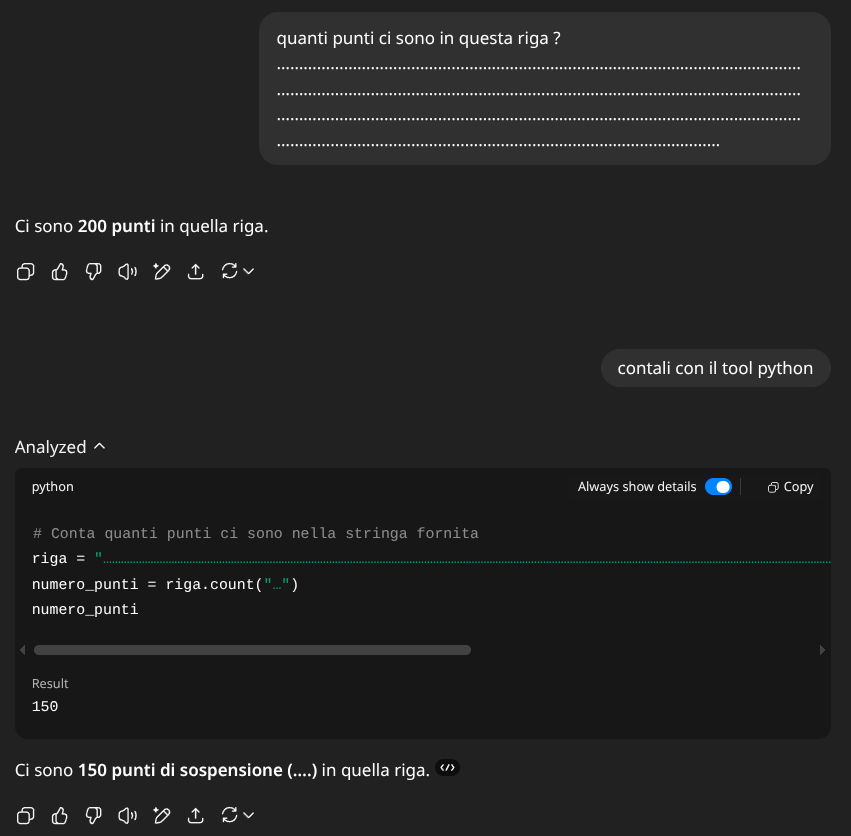
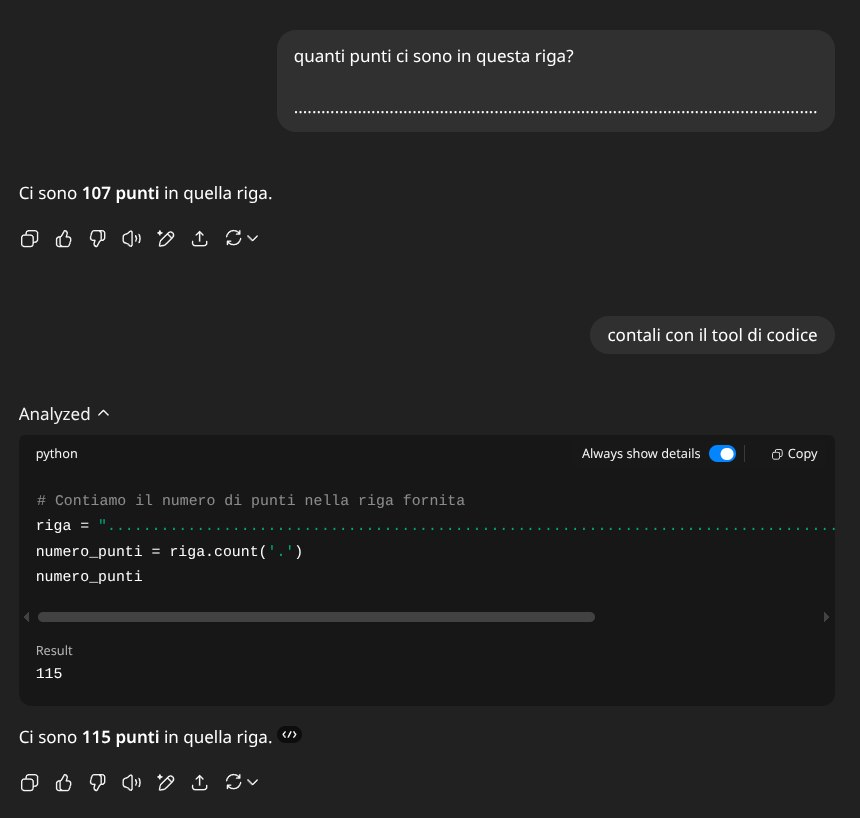
update module 8 with 115 dots copyable block

diff --git a/corso-llm/tool-workflow-avanzati/index.html b/corso-llm/tool-workflow-avanzati/index.html
@@ -70,6 +70,40 @@ pre > code.sourceCode > span > a:first-child::before { text-decoration: underlin
 <script src="index_files/libs/bootstrap/bootstrap.min.js"></script>
 <link href="index_files/libs/bootstrap/bootstrap-icons.css" rel="stylesheet">
 <link href="index_files/libs/bootstrap/bootstrap-98cad52ce7327bfd42cee12d434ba08f.min.css" rel="stylesheet" append-hash="true" id="quarto-bootstrap" data-mode="light">
+<style>
+/* Fix per overflow della riga di puntini */
+.callout {
+  max-width: 100% !important;
+  overflow: hidden !important;
+}
+
+.callout-body-container {
+  max-width: 100% !important;
+  overflow-x: auto !important;
+  overflow-y: hidden !important;
+}
+
+.callout-body-container p {
+  word-break: break-all !important;
+  overflow-wrap: anywhere !important;
+  white-space: normal !important;
+  max-width: 100% !important;
+}
+
+/* Specifico per i puntini */
+.callout-body-container pre {
+  white-space: pre-wrap !important;
+  word-break: break-all !important;
+  overflow-wrap: anywhere !important;
+  max-width: min(50ch, 100%) !important;
+  overflow-x: hidden !important;
+}
+
+.callout-body-container div[style*="max-width"] {
+  max-width: 100% !important;
+  overflow-x: hidden !important;
+}
+</style>
 
 
 <link rel="stylesheet" href="../../style.css">
@@ -309,8 +343,22 @@ pre > code.sourceCode > span > a:first-child::before { text-decoration: underlin
 <p>La capacità di eseguire codice è stata una delle aggiunte più rivoluzionarie agli LLM. Ma il percorso è stato tutt’altro che lineare.</p>
 <p><strong>Code Interpreter</strong> (il veterano di ChatGPT) gira in container isolati sui server di OpenAI. Python completo, librerie scientifiche pre-installate, può processare dati. Ma c’è un limite cruciale: zero accesso a internet per ragioni di sicurezza. È potente ma isolato.</p>
 <p>Questo strumento risolve già elegantemente il problema che abbiamo visto nel Modulo 2 del contare i punti. L’LLM non sa quanti punti ci sono perché vede token che ne contengono molti assieme, ma sa scrivere esattamente gli stessi token in un interprete di codice per calcolare il vero risultato.</p>
-<p>Se volete provare, ecco gli stessi 150 punti del Modulo 2:</p>
-<p>…………………………………………………………………………………………………….</p>
+<p>Se volete provare, ecco gli stessi 115 punti del Modulo 2:</p>
+<div class="callout callout-style-default callout-note callout-titled">
+<div class="callout-header d-flex align-content-center">
+<div class="callout-icon-container">
+<i class="callout-icon"></i>
+</div>
+<div class="callout-title-container flex-fill">
+Riga di 115 puntini per il test
+</div>
+</div>
+<div class="callout-body-container callout-body">
+<div style="max-width: 100%; overflow-x: hidden;">
+<pre style="white-space: pre-wrap; word-wrap: break-word; overflow-wrap: anywhere; margin: 0; font-family: monospace; max-width: 50ch; word-break: break-all;">...................................................................................................................</pre>
+</div>
+</div>
+</div>
 <div class="center">
 <p><img src="immagini/code-interpreter-dots.png" class="img-fluid"></p>
 </div>
@@ -788,6 +836,146 @@ pre > code.sourceCode > span > a:first-child::before { text-decoration: underlin
 <a href="/corso-llm/personalizzazione-llm/">← Modulo precedente</a>
 </div>
 <script src="../theme-toggle.js"></script>
+<style>
+/* Stili per il pulsante di copia nei callout */
+.callout {
+  position: relative;
+  max-width: 100%;
+  overflow: hidden;
+}
+
+.copy-callout-btn {
+  position: absolute;
+  top: 30px;
+  right: 10px;
+  background: #f0f0f0;
+  border: 1px solid #ddd;
+  border-radius: 4px;
+  padding: 6px 12px;
+  font-size: 12px;
+  cursor: pointer;
+  opacity: 0.7;
+  transition: all 0.3s ease;
+  z-index: 10;
+}
+
+.copy-callout-btn:hover {
+  opacity: 1;
+  background: #e0e0e0;
+}
+
+.copy-callout-btn.copied {
+  background: #4CAF50;
+  color: white;
+  border-color: #4CAF50;
+  animation: copySuccess 0.6s ease;
+}
+
+@keyframes copySuccess {
+  0% { transform: scale(1); }
+  50% { transform: scale(1.1); }
+  100% { transform: scale(1); }
+}
+
+.copy-callout-btn .icon {
+  margin-right: 4px;
+}
+
+/* Gestione overflow per contenuti lunghi nei callout */
+.callout-body-container {
+  overflow-wrap: break-word;
+  word-break: break-all;
+  overflow-x: hidden;
+}
+
+/* Specifico per il contenuto con puntini */
+.callout-body-container p {
+  overflow-wrap: break-word;
+  word-break: break-all;
+  white-space: normal;
+  max-width: 100%;
+}
+</style>
+<script>
+document.addEventListener('DOMContentLoaded', function() {
+  const callouts = document.querySelectorAll('.callout');
+
+  callouts.forEach((callout, index) => {
+    // Crea il pulsante di copia
+    const copyBtn = document.createElement('button');
+    copyBtn.className = 'copy-callout-btn';
+    copyBtn.innerHTML = '<span class="icon">📋</span>Copia';
+    copyBtn.setAttribute('data-callout-id', index);
+
+    // Aggiungi il pulsante al callout
+    callout.appendChild(copyBtn);
+  });
+
+  // Gestisci i click sui pulsanti di copia
+  document.addEventListener('click', async function(e) {
+    if (!e.target.closest('.copy-callout-btn')) return;
+
+    const copyBtn = e.target.closest('.copy-callout-btn');
+    const calloutId = copyBtn.getAttribute('data-callout-id');
+    const callout = document.querySelectorAll('.callout')[calloutId];
+
+    // Cerca specificamente il contenuto del <pre> tag per i puntini
+    const preElement = callout.querySelector('pre');
+    let textToCopy;
+
+    if (preElement) {
+      // Se c'è un <pre>, copia solo il suo contenuto
+      textToCopy = preElement.innerText || preElement.textContent;
+    } else {
+      // Fallback per altri callout
+      const tempBtn = copyBtn.cloneNode(true);
+      copyBtn.style.display = 'none';
+      textToCopy = callout.innerText;
+      copyBtn.style.display = '';
+
+      // Pulisci il testo
+      textToCopy = textToCopy.replace(/📋Copia|✓Copiato!/g, '').trim();
+      textToCopy = textToCopy.replace(/\*\*/g, '');
+    }
+
+    try {
+      // Copia il testo negli appunti
+      await navigator.clipboard.writeText(textToCopy.trim());
+
+      // Mostra feedback visivo
+      copyBtn.classList.add('copied');
+      copyBtn.innerHTML = '<span class="icon">✓</span>Copiato!';
+
+      // Ripristina dopo 2 secondi
+      setTimeout(() => {
+        copyBtn.classList.remove('copied');
+        copyBtn.innerHTML = '<span class="icon">📋</span>Copia';
+      }, 2000);
+
+    } catch (err) {
+      console.error('Errore nella copia:', err);
+
+      // Fallback per browser più vecchi
+      const textArea = document.createElement('textarea');
+      textArea.value = textToCopy.trim();
+      document.body.appendChild(textArea);
+      textArea.select();
+      try {
+        document.execCommand('copy');
+        copyBtn.classList.add('copied');
+        copyBtn.innerHTML = '<span class="icon">✓</span>Copiato!';
+        setTimeout(() => {
+          copyBtn.classList.remove('copied');
+          copyBtn.innerHTML = '<span class="icon">📋</span>Copia';
+        }, 2000);
+      } catch (fallbackErr) {
+        console.error('Errore anche nel fallback:', fallbackErr);
+      }
+      document.body.removeChild(textArea);
+    }
+  });
+});
+</script>
 
 
 
